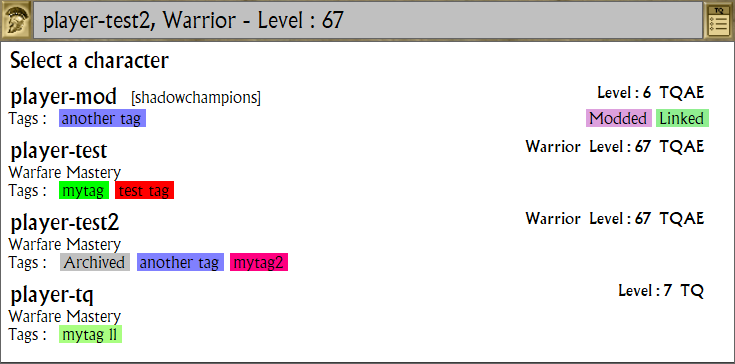
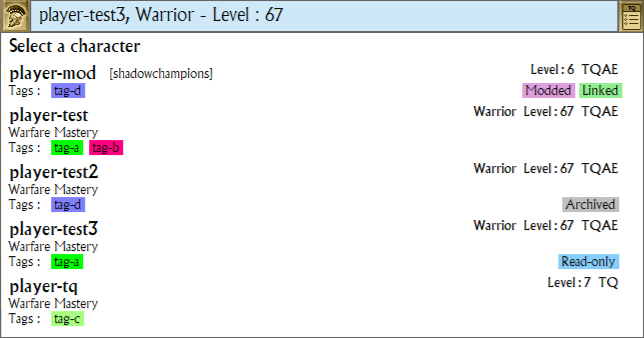
docs: retake the character list and settings pictures
The character list picture showed Archived on the tags line: the status badges
(Archived, Read-only, Modded and its link state) now sit on the right, and the
selected read-only character's box is icy blue. The new picture shows a linked
mod character, an archived one, a read-only one selected, a TQ original one and
tags. The Git backup and TQ original settings crops are retaken in the black
and gold group look. CHARMANAGE.md and MODLINK.md say badge on the right
instead of a tag on the tags line, and name the silver and icy blue boxes.

diff --git a/documentation/CHARMANAGE.md b/documentation/CHARMANAGE.md
@@ -23,7 +23,7 @@ TQVault will prompt you for a new name and create a copy of the selected charact
 
 ## Archiving
 
-An archived character shows a greyed out background color.
+An archived character shows an "Archived" badge in the dropdown, and its box turns silver when it is selected.
 
 *"Archived"* is a toggle.
 
@@ -41,7 +41,7 @@ Explorer, or by a download).
 Nothing of a read-only character can change in TQVault: no item can be taken out of its bags, equipment or storage
 area, moved, deleted, sorted or edited (seed, affixes, relics, forge), no item can be put in, its character editor
 only shows it (OK is disabled) and its mod link cannot change. TQVault tells why in the notification bar. Copy, Share,
-Properties and Compare still work, and the save skips the character. The dropdown shows a "Read-only" tag on it.
+Properties and Compare still work, and the save skips the character. The dropdown shows a "Read-only" badge on it, and its box turns icy blue when it is selected.
 
 The transfer stash and the relic vault belong to every character: they stay writable.
 
@@ -68,6 +68,8 @@ The character dropdown display detailed informations on the characters, includin
 
 It make it easier to manage your roster.
 
-A character of a custom map also shows its mod in brackets, a "Modded" tag and the state of its mod link (see [Mods](MODS.md)).
+The status badges sit on the right of each entry: "Archived", "Read-only", and for a character of a custom map a "Modded"
+badge with the state of its mod link, its mod named in brackets beside its name (see [Mods](MODS.md)). The tags line
+keeps only the tags. The selected character's box turns icy blue when it is read-only, silver when it is archived.
 
-![Other actions](charmanage/dropdown.png)
+![Detailed dropdown](charmanage/dropdown.png)

diff --git a/documentation/MODLINK.md b/documentation/MODLINK.md
@@ -33,8 +33,8 @@ Workshop items) and links the character to one, or removes its link. The choice 
 - `folder` is where the mod was when linked, preferred while it exists.
 - The game never writes a file with this name; it is copied with the character (*Duplicate*, archive).
 
-In the character list, a custom map character shows its mod's name in brackets beside its name, and on its tags line,
-on the right, a *Modded* tag and the link state: *Linked* (green), *Not installed* (red, the linked mod is gone) or *Not
+In the character list, a custom map character shows its mod's name in brackets beside its name, and on the
+right, with its other status badges, a *Modded* badge and the link state: *Linked* (green), *Not installed* (red, the linked mod is gone) or *Not
 linked* (yellow).
 
 A character linked to an installed mod is described with that mod's data, which takes precedence over the base game's,
